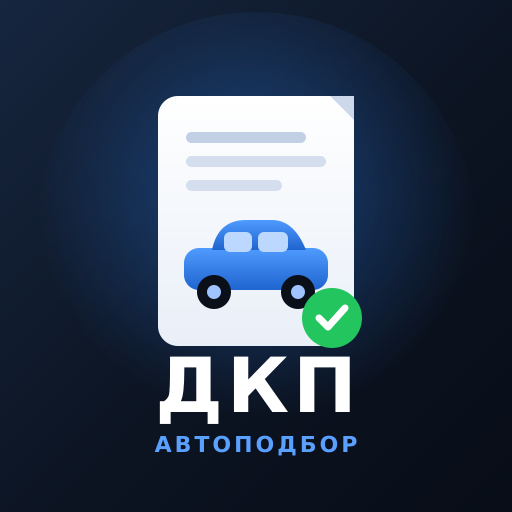
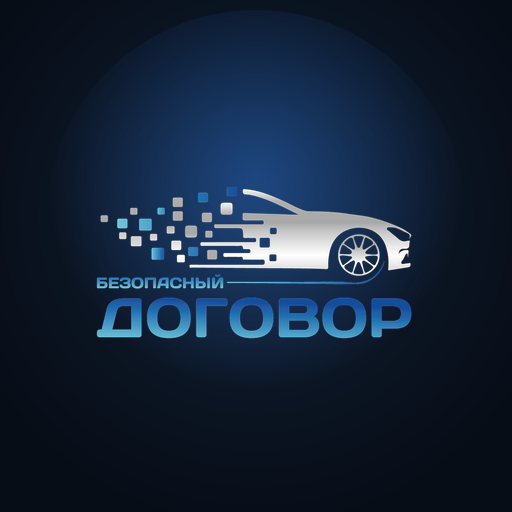
Бренд «Безопасный Договор» + оплата в том же окне (#17)
* Новый бренд «Безопасный Договор»: аватар и welcome-баннер по фирменному лого

* Шапка «Безопасный Договор» + оплата в том же окне (Вариант 2)

- мини-апп: текст-логотип «БЕЗОПАСНЫЙ ДОГОВОР»
- оплата Тинькофф открывается в том же окне (window.location), без новой вкладки
- SuccessURL/FailURL возвращают в мини-апп (?dkp=paid/fail)
- initData и данные формы сохраняются в sessionStorage и восстанавливаются после возврата

---------

diff --git a/web/index.html b/web/index.html
@@ -79,7 +79,7 @@
 </head>
 <body>
 <div class="appbar">
-  <div class="brand"><span class="b1">БЕЗОПАСНЫЙ</span><span class="b2">АВТО<b>ПОДБОР</b></span></div>
+  <div class="brand"><span class="b1">БЕЗОПАСНЫЙ</span><span class="b2"><b>ДОГОВОР</b></span></div>
   <div class="bar"></div>
   <div class="t1">Договор купли-продажи ТС</div>
   <div class="t2">фото паспорта и СТС → готовый договор</div>
@@ -163,6 +163,12 @@ const tg = window.Telegram?.WebApp; tg?.ready(); tg?.expand();
 // Адрес задеплоенного воркера ДКП-бота:
 const WORKER = "https://dkp-bot.d-karatsapov.workers.dev";
 
+// initData для авторизации. После оплаты (возврат с Тинькофф в том же окне) Telegram
+// не передаёт initData заново — восстанавливаем из sessionStorage.
+let initData = tg?.initData || "";
+try { if (!initData) initData = sessionStorage.getItem("dkp_initData") || ""; } catch (e) {}
+try { if (initData) sessionStorage.setItem("dkp_initData", initData); } catch (e) {}
+
 /* ---------- Доступ и оплата (CloudPayments) ---------- */
 let subCfg = { subEnabled: false, provider: "", cpPublicId: "", tariffs: [] };
 let subIsActive = true;                       // есть доступ: подписка ИЛИ кредит
@@ -173,15 +179,26 @@ async function loadSub() {
     if (!subCfg.subEnabled) { subIsActive = true; return; }
     const s = await (await fetch(WORKER + "/api/sub-status", {
       method: "POST", headers: { "content-type": "application/json" },
-      body: JSON.stringify({ initData: tg?.initData || "" }),
+      body: JSON.stringify({ initData: initData }),
     })).json();
     subIsActive = !!s.active;
     subInfo = { sub: !!s.sub, credits: s.credits || 0, until: s.until || 0 };
   } catch { subIsActive = true; }
 }
-// Первый экран — всегда окно доступа (показано сразу, до ответа сервера),
-// затем наполняем тарифами/статусом; если платный режим выключен — прячем.
-loadSub().then(() => { if (subCfg.subEnabled) openPaywall(); else closePaywall(); });
+// Первый экран — всегда окно доступа; обрабатываем возврат с оплаты (?dkp=paid/fail).
+loadSub().then(async () => {
+  const ret = new URLSearchParams(location.search).get("dkp");
+  if (ret) {
+    history.replaceState(null, "", location.pathname);
+    restoreForm();
+    if (ret === "paid") {                       // ждём подтверждения вебхука Тинькофф
+      for (let i = 0; i < 20 && !subIsActive; i++) { await new Promise((s) => setTimeout(s, 2000)); await loadSub(); }
+    }
+  }
+  if (subCfg.subEnabled && !subIsActive) openPaywall(); else closePaywall();
+  if (ret === "paid") tg?.showAlert?.(subIsActive ? "Оплата получена — доступ открыт!" : "Оплата получена. Доступ появится в течение минуты.");
+  else if (ret === "fail") tg?.showAlert?.("Оплата не завершена.");
+});
 
 // Разделы с видами оплат: рисуем карточки тарифов из конфига воркера.
 function renderTariffs() {
@@ -209,20 +226,41 @@ function openPaywall() {
 }
 function closePaywall() { document.getElementById("paywall").style.display = "none"; }
 
-// Оплата через Тинькофф: создаём платёж на сервере, открываем ссылку, ждём активацию доступа.
+// Оплата через Тинькофф: создаём платёж и открываем оплату В ТОМ ЖЕ ОКНЕ.
+// Перед уходом сохраняем форму и initData; Тинькофф вернёт обратно (?dkp=paid) — восстановим.
 async function payTinkoff(t) {
   try {
     const r = await fetch(WORKER + "/api/pay/init", {
       method: "POST", headers: { "content-type": "application/json" },
-      body: JSON.stringify({ initData: tg?.initData || "", plan: t.key }),
+      body: JSON.stringify({ initData: initData, plan: t.key }),
     });
     const d = await r.json();
     if (!d.paymentUrl) { tg?.showAlert?.("Оплата недоступна: " + (d.error || d.detail || "")); return; }
-    if (tg?.openLink) tg.openLink(d.paymentUrl); else window.open(d.paymentUrl, "_blank");
-    tg?.showAlert?.("Открыли страницу оплаты. После оплаты вернитесь в бот — доступ откроется автоматически.");
-    for (let i = 0; i < 40 && !subIsActive; i++) { await new Promise((res) => setTimeout(res, 3000)); await loadSub(); }
-    if (subIsActive) { closePaywall(); tg?.showAlert?.("Доступ открыт! Можно оформить договор."); }
+    try { sessionStorage.setItem("dkp_initData", initData); saveForm(); } catch (e) {}
+    window.location.href = d.paymentUrl;     // оплата в том же окне (без новой вкладки)
   } catch (e) { tg?.showAlert?.("Ошибка оплаты: " + (e.message || e)); }
+}
+// Сохранение/восстановление формы при уходе на оплату и возврате.
+function saveForm() {
+  try {
+    const d = { __type: partyType, __gender: partyGender };
+    document.querySelectorAll("input, select").forEach((el) => {
+      if (!el.id) return; d[el.id] = el.type === "checkbox" ? el.checked : el.value;
+    });
+    sessionStorage.setItem("dkp_form", JSON.stringify(d));
+  } catch (e) {}
+}
+function restoreForm() {
+  try {
+    const raw = sessionStorage.getItem("dkp_form"); if (!raw) return;
+    const d = JSON.parse(raw);
+    if (d.__type) { setType("seller", d.__type.seller || "person"); setType("buyer", d.__type.buyer || "person"); }
+    if (d.__gender) { setGender("seller", d.__gender.seller || "m"); setGender("buyer", d.__gender.buyer || "m"); }
+    document.querySelectorAll("input, select").forEach((el) => {
+      if (el.id && el.id in d) { if (el.type === "checkbox") el.checked = d[el.id]; else el.value = d[el.id]; }
+    });
+    sessionStorage.removeItem("dkp_form");
+  } catch (e) {}
 }
 function payAndSubscribe(planKey) {
   const t = (subCfg.tariffs || []).find((x) => x.key === planKey);
@@ -376,7 +414,7 @@ async function recognize(file, kind, statusEl, applyPrefix) {
     const image = await fileToDataUrl(file);
     const r = await fetch(WORKER + "/api/recognize", {
       method: "POST", headers: { "content-type": "application/json" },
-      body: JSON.stringify({ initData: tg?.initData || "", image, kind }),
+      body: JSON.stringify({ initData: initData, image, kind }),
     });
     const data = await r.json();
     if (data.error) {
@@ -628,7 +666,7 @@ async function sendGenerated() {
     const r = await fetch(WORKER + "/api/send", {
       method: "POST", headers: { "content-type": "application/json" },
       body: JSON.stringify({
-        initData: tg?.initData || "", filename: gen.name,
+        initData: initData, filename: gen.name,
         docx_base64: bufToB64(gen.docx), pdf_base64: bufToB64(gen.pdf),
       }),
     });

diff --git a/worker.js b/worker.js
@@ -497,12 +497,15 @@ async function tinkoffToken(params, password) {
 }
 // Создаём платёж в Тинькофф → ссылка на оплату. OrderId кодирует userId и ключ тарифа.
 async function tinkoffInit(env, userId, tariff, origin) {
+  const app = env.MINI_APP_URL || origin;
   const body = {
     TerminalKey: env.TINKOFF_TERMINAL_KEY,
     Amount: Math.round(tariff.price * 100),       // в копейках
     OrderId: `dkp_${userId}_${tariff.key}_${Date.now()}`,
     Description: `ДКП-бот — ${tariff.title}`,
     NotificationURL: `${origin}/api/tinkoff/webhook`,
+    SuccessURL: `${app}?dkp=paid`,                // возврат в мини-апп (тот же webview)
+    FailURL: `${app}?dkp=fail`,
   };
   body.Token = await tinkoffToken(body, env.TINKOFF_PASSWORD);
   const r = await fetch("https://securepay.tinkoff.ru/v2/Init", {